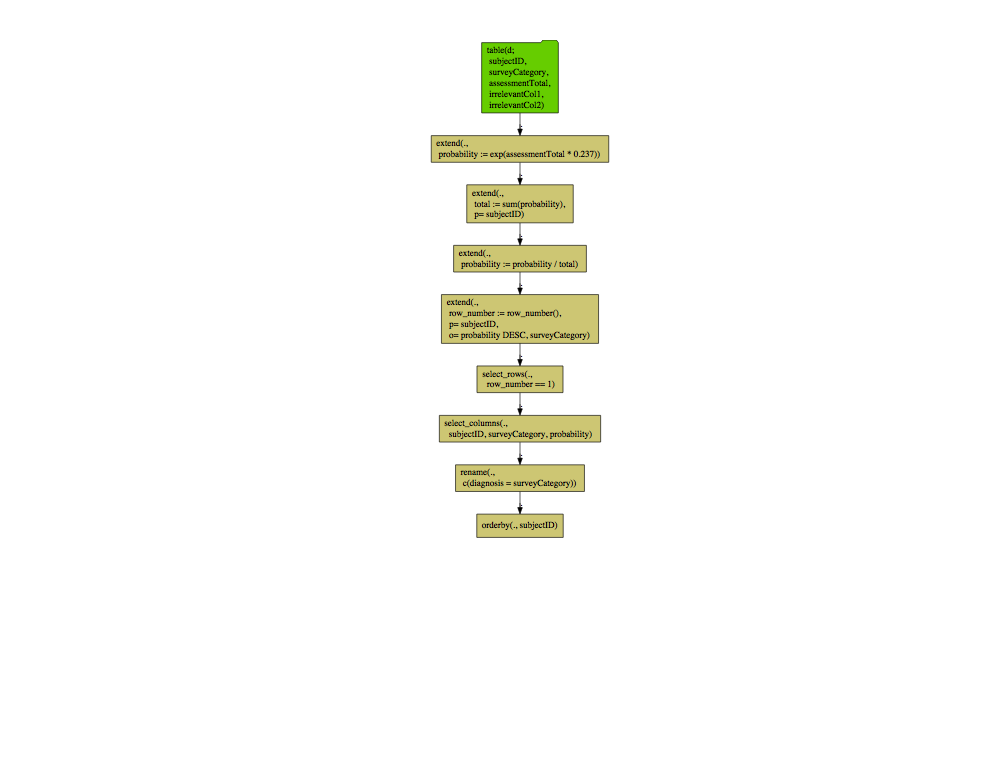
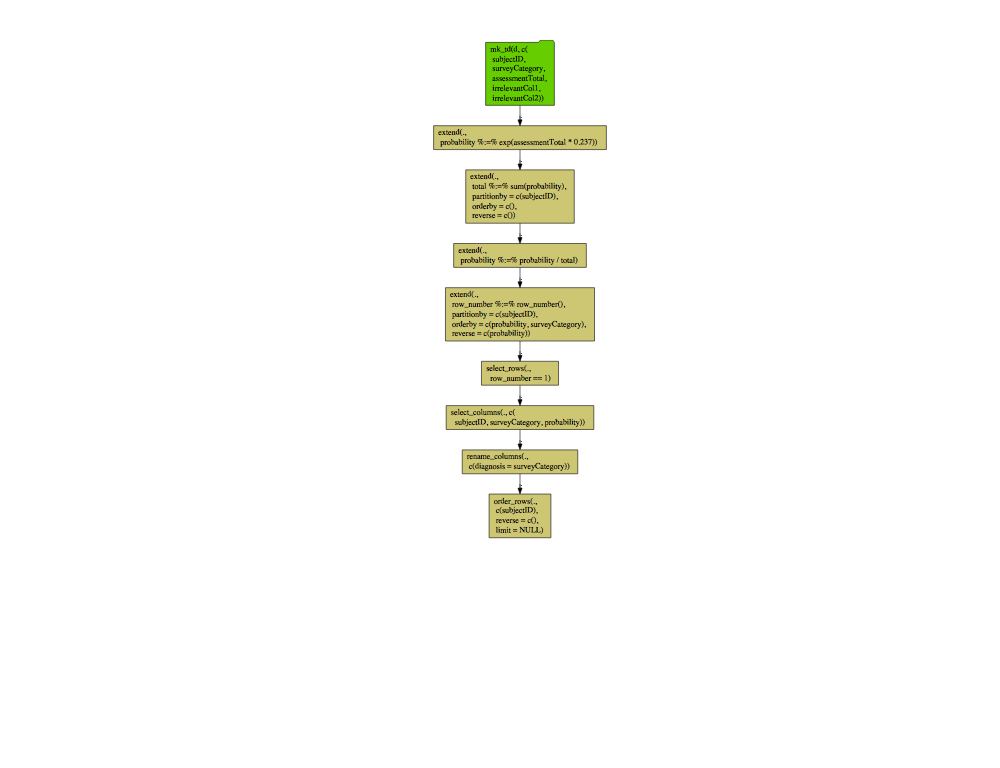
work more on interop

Changed region(s): [[0.403, 0.0625, 0.62, 0.7188]]

diff --git a/Examples/yaml/yaml.md b/Examples/yaml/yaml.md
@@ -11,37 +11,42 @@ library(yaml)
 library(wrapr)
 library(rquery)
 library(rqdatatable)
-source("R_fns.R")  # https://github.com/WinVector/rquery/blob/master/Examples/yaml/R_fns.R
 
 rep <- yaml.load_file("pipeline_yaml.txt")
 ops <- convert_yaml_to_pipeline(rep)
 cat(format(ops))
 ```
 
-    ## table(d; 
-    ##   subjectID,
-    ##   surveyCategory,
-    ##   assessmentTotal,
-    ##   irrelevantCol1,
-    ##   irrelevantCol2) %.>%
+    ## mk_td("d", c(
+    ##   "subjectID",
+    ##   "surveyCategory",
+    ##   "assessmentTotal",
+    ##   "irrelevantCol1",
+    ##   "irrelevantCol2")) %.>%
     ##  extend(.,
-    ##   probability := exp(assessmentTotal * 0.237)) %.>%
+    ##   probability %:=% exp(assessmentTotal * 0.237)) %.>%
     ##  extend(.,
-    ##   total := sum(probability),
-    ##   p= subjectID) %.>%
+    ##   total %:=% sum(probability),
+    ##   partitionby = c('subjectID'),
+    ##   orderby = c(),
+    ##   reverse = c()) %.>%
     ##  extend(.,
-    ##   probability := probability / total) %.>%
+    ##   probability %:=% probability / total) %.>%
     ##  extend(.,
-    ##   row_number := row_number(),
-    ##   p= subjectID,
-    ##   o= "probability" DESC, "surveyCategory") %.>%
+    ##   row_number %:=% row_number(),
+    ##   partitionby = c('subjectID'),
+    ##   orderby = c('probability', 'surveyCategory'),
+    ##   reverse = c('probability')) %.>%
     ##  select_rows(.,
     ##    row_number == 1) %.>%
-    ##  select_columns(.,
-    ##    subjectID, surveyCategory, probability) %.>%
-    ##  rename(.,
+    ##  select_columns(., c(
+    ##    "subjectID", "surveyCategory", "probability")) %.>%
+    ##  rename_columns(.,
     ##   c('diagnosis' = 'surveyCategory')) %.>%
-    ##  orderby(., subjectID)
+    ##  order_rows(.,
+    ##   c('subjectID'),
+    ##   reverse = c(),
+    ##   limit = NULL)
 
 ``` r
 cat(to_sql(ops, rquery_default_db_info()))
@@ -87,15 +92,15 @@ cat(to_sql(ops, rquery_default_db_info()))
     ##          "assessmentTotal"
     ##         FROM
     ##          "d"
-    ##         ) tsql_51659372499255731718_0000000000
-    ##        ) tsql_51659372499255731718_0000000001
-    ##       ) tsql_51659372499255731718_0000000002
-    ##      ) tsql_51659372499255731718_0000000003
-    ##    ) tsql_51659372499255731718_0000000004
+    ##         ) tsql_78992171733554272929_0000000000
+    ##        ) tsql_78992171733554272929_0000000001
+    ##       ) tsql_78992171733554272929_0000000002
+    ##      ) tsql_78992171733554272929_0000000003
+    ##    ) tsql_78992171733554272929_0000000004
     ##    WHERE "row_number" = 1
-    ##   ) tsql_51659372499255731718_0000000005
-    ##  ) tsql_51659372499255731718_0000000006
-    ## ) tsql_51659372499255731718_0000000007 ORDER BY "subjectID"
+    ##   ) tsql_78992171733554272929_0000000005
+    ##  ) tsql_78992171733554272929_0000000006
+    ## ) tsql_78992171733554272929_0000000007 ORDER BY "subjectID"
 
 ``` r
 d_local <- build_frame(

diff --git a/Examples/data_algebra/interop.md b/Examples/data_algebra/interop.md
@@ -1,0 +1,112 @@
+iterop
+================
+
+Example of moving an [`rquery`](https://winvector.github.io/rquery/)
+pipeline from `R` to `Python`
+[`data_algebra`](https://github.com/WinVector/data_algebra). Another
+example (from the `Python` point of view) can be found
+[here](https://github.com/WinVector/data_algebra/blob/master/Examples/LogisticExample/ScoringExample.ipynb).
+
+``` r
+library(reticulate)
+use_condaenv("aiAcademy") 
+```
+
+``` r
+library("rqdatatable")
+```
+
+    ## Loading required package: rquery
+
+``` r
+ops <- mk_td("d", c(
+  "subjectID",
+  "surveyCategory",
+  "assessmentTotal",
+  "irrelevantCol1",
+  "irrelevantCol2")) %.>%
+ extend(.,
+  probability %:=% exp(assessmentTotal * 0.237)) 
+
+# %.>%
+#  extend(.,
+#   total %:=% sum(probability),
+#   partitionby = c('subjectID'),
+#   orderby = c(),
+#   reverse = c()) %.>%
+#  extend(.,
+#   probability %:=% probability / total) %.>%
+#  extend(.,
+#   sort_key %:=% -(probability)) %.>%
+#  extend(.,
+#   row_number %:=% row_number(),
+#   partitionby = c('subjectID'),
+#   orderby = c('sort_key'),
+#   reverse = c()) %.>%
+#  select_rows(.,
+#    row_number == 1) %.>%
+#  select_columns(., c(
+#    "subjectID", "surveyCategory", "probability")) %.>%
+#  rename_columns(.,
+#   c('diagnosis' = 'surveyCategory')) %.>%
+#   order_rows(., 'subjectID')
+
+ops_obj <- to_transport_representation(ops)
+print(ops_obj)
+```
+
+    ## [[1]]
+    ## [[1]]$op
+    ## [1] "TableDescription"
+    ## 
+    ## [[1]]$table_name
+    ## [1] "d"
+    ## 
+    ## [[1]]$column_names
+    ## [1] "subjectID"       "surveyCategory"  "assessmentTotal" "irrelevantCol1" 
+    ## [5] "irrelevantCol2" 
+    ## 
+    ## 
+    ## [[2]]
+    ## [[2]]$op
+    ## [1] "Extend"
+    ## 
+    ## [[2]]$ops
+    ##                       probability 
+    ## "exp ( assessmentTotal * 0.237 )" 
+    ## 
+    ## [[2]]$partition_by
+    ## NULL
+    ## 
+    ## [[2]]$order_by
+    ## NULL
+    ## 
+    ## [[2]]$reverse
+    ## NULL
+
+``` r
+ops_rep <- yaml::as.yaml(ops_obj)
+```
+
+``` python
+import yaml
+import data_algebra.yaml
+
+print(r.ops_rep)
+#ops = data_algebra.yaml.to_pipeline(yaml.safe_load(r.ops_rep))
+#print(ops.to_python(pretty=True))
+```
+
+    ## - op: TableDescription
+    ##   table_name: d
+    ##   column_names:
+    ##   - subjectID
+    ##   - surveyCategory
+    ##   - assessmentTotal
+    ##   - irrelevantCol1
+    ##   - irrelevantCol2
+    ## - op: Extend
+    ##   ops: exp ( assessmentTotal * 0.237 )
+    ##   partition_by: ~
+    ##   order_by: ~
+    ##   reverse: ~
